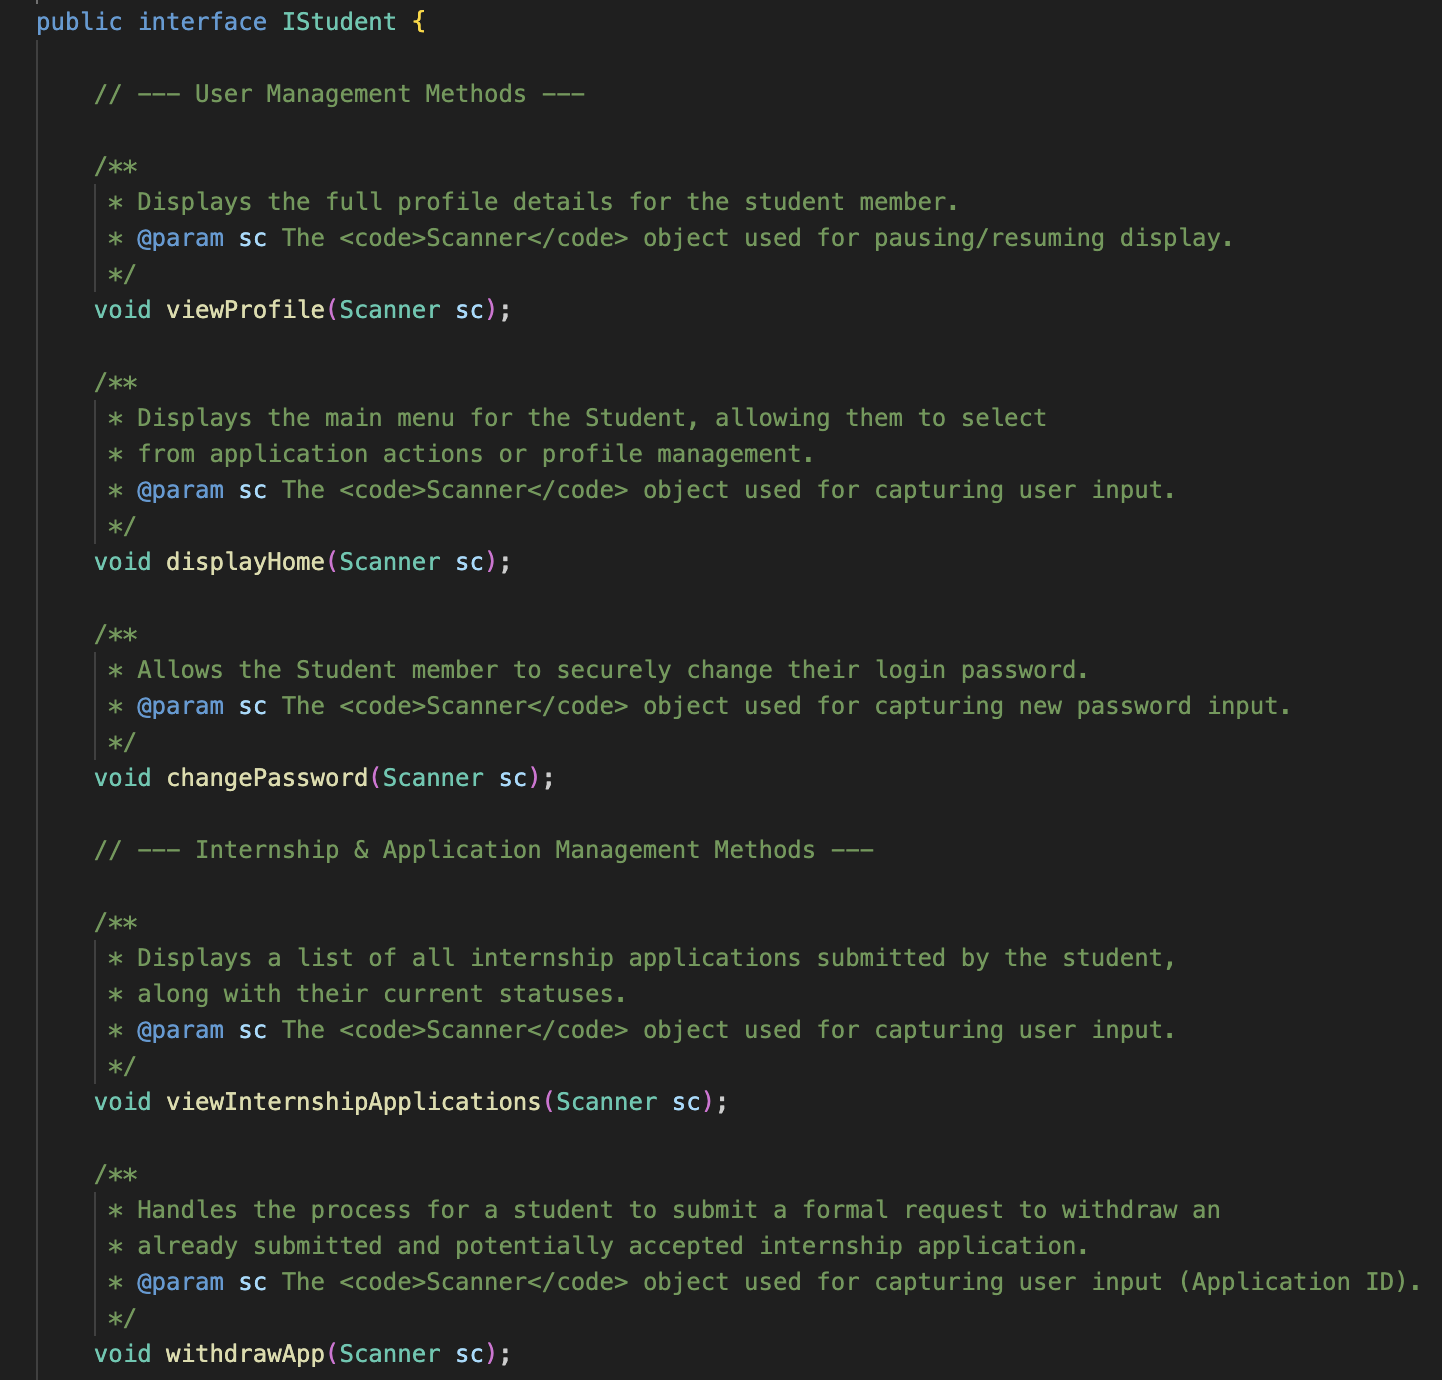
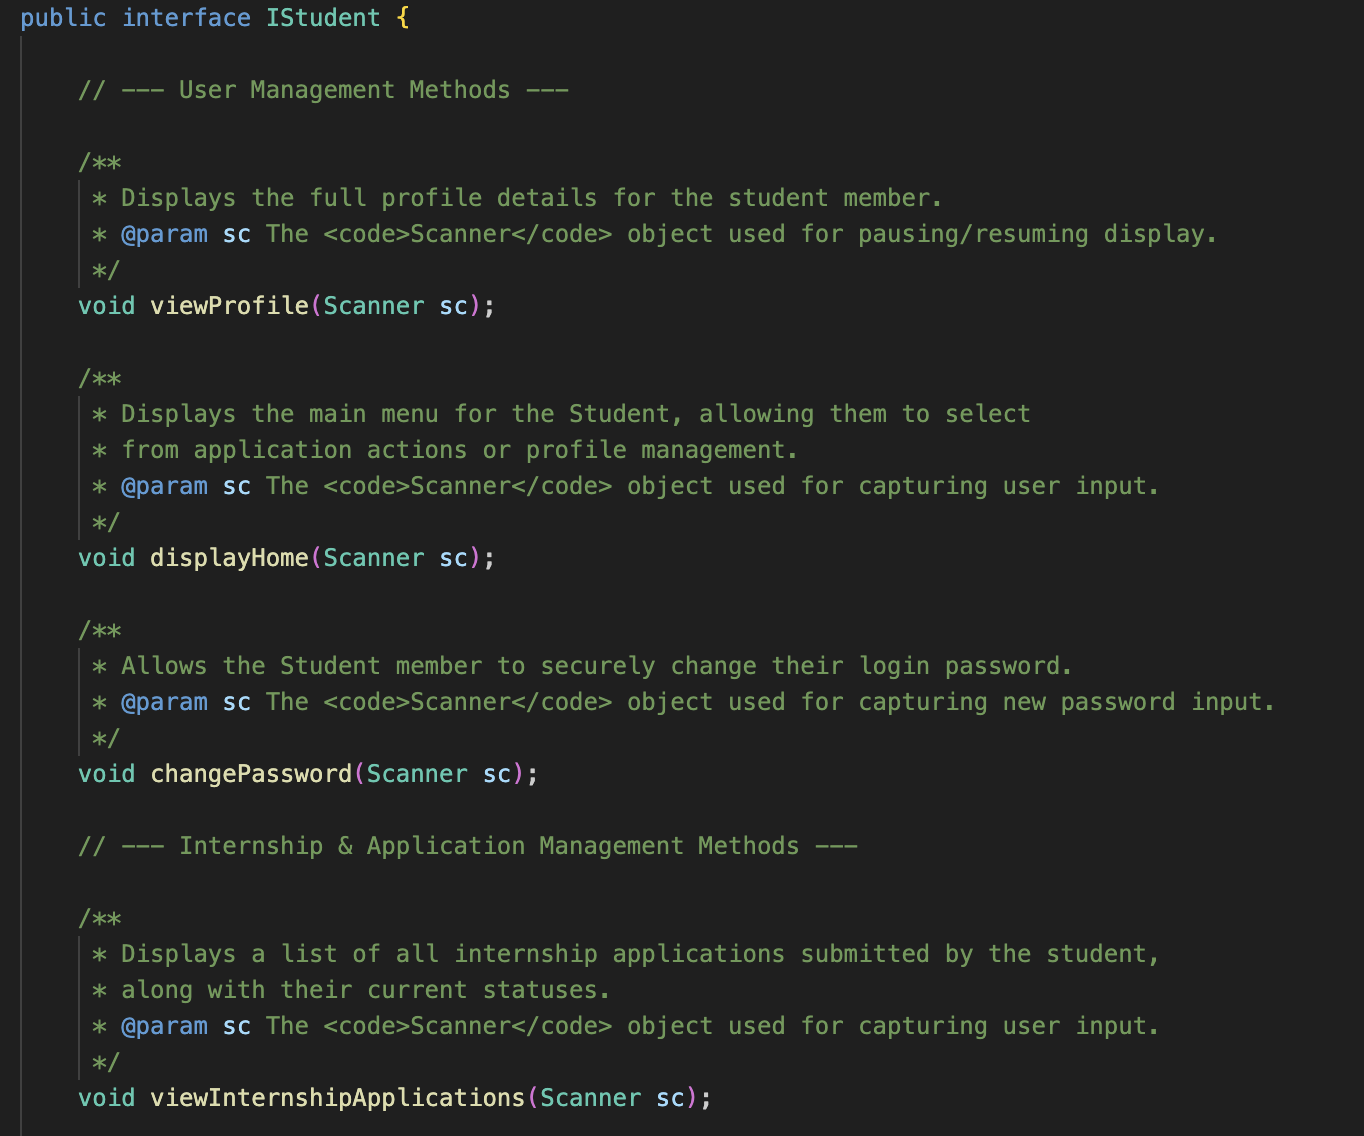
Updated image

diff --git a/sc2002OOP/reference.md b/sc2002OOP/reference.md
@@ -29,4 +29,7 @@
 
 
 ![](images/Figure5.1.4d.png)
-`Figure 5.1.4d`: Interface header with student specific methods
+`Figure 5.1.4d`: IStudent interface with student specific methods only
+
+![](images/Figure5.1.4e.png)
+`Figure 5.1.4e`: ICareerCenterStaff interface with staff specific methods only
